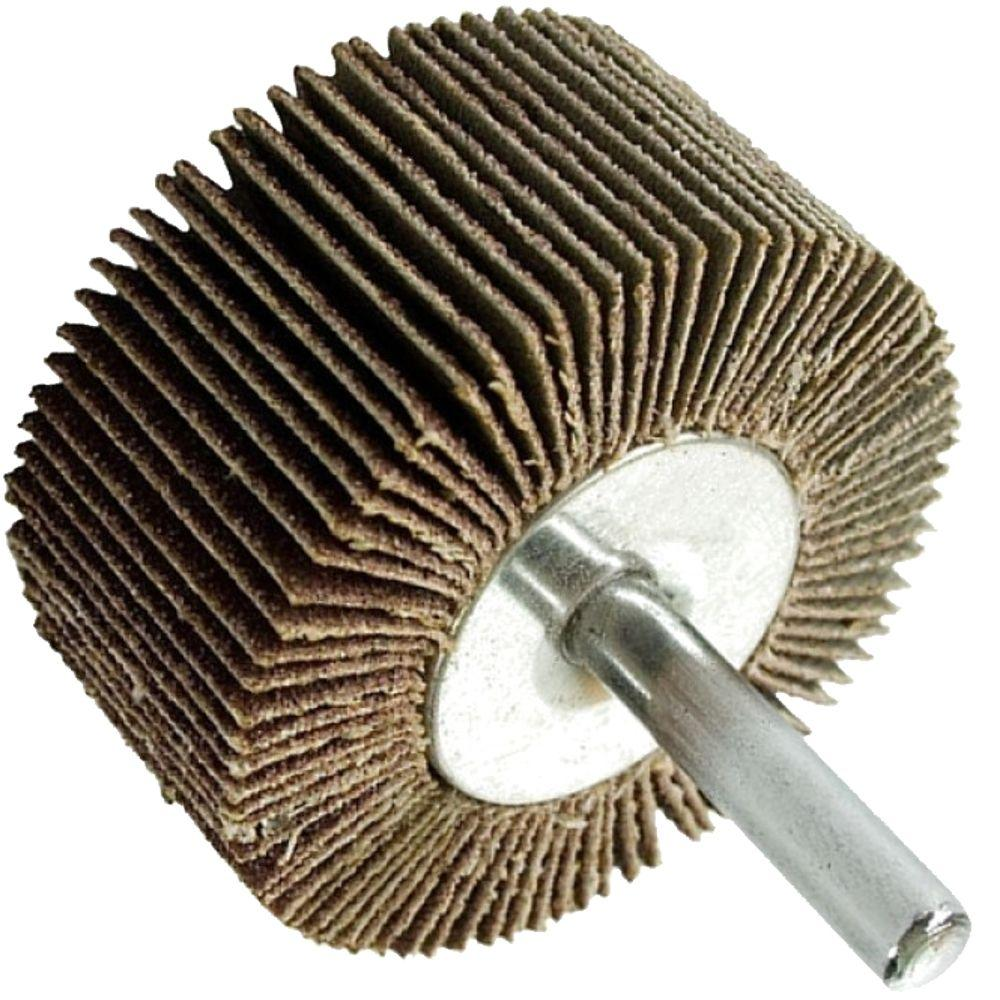
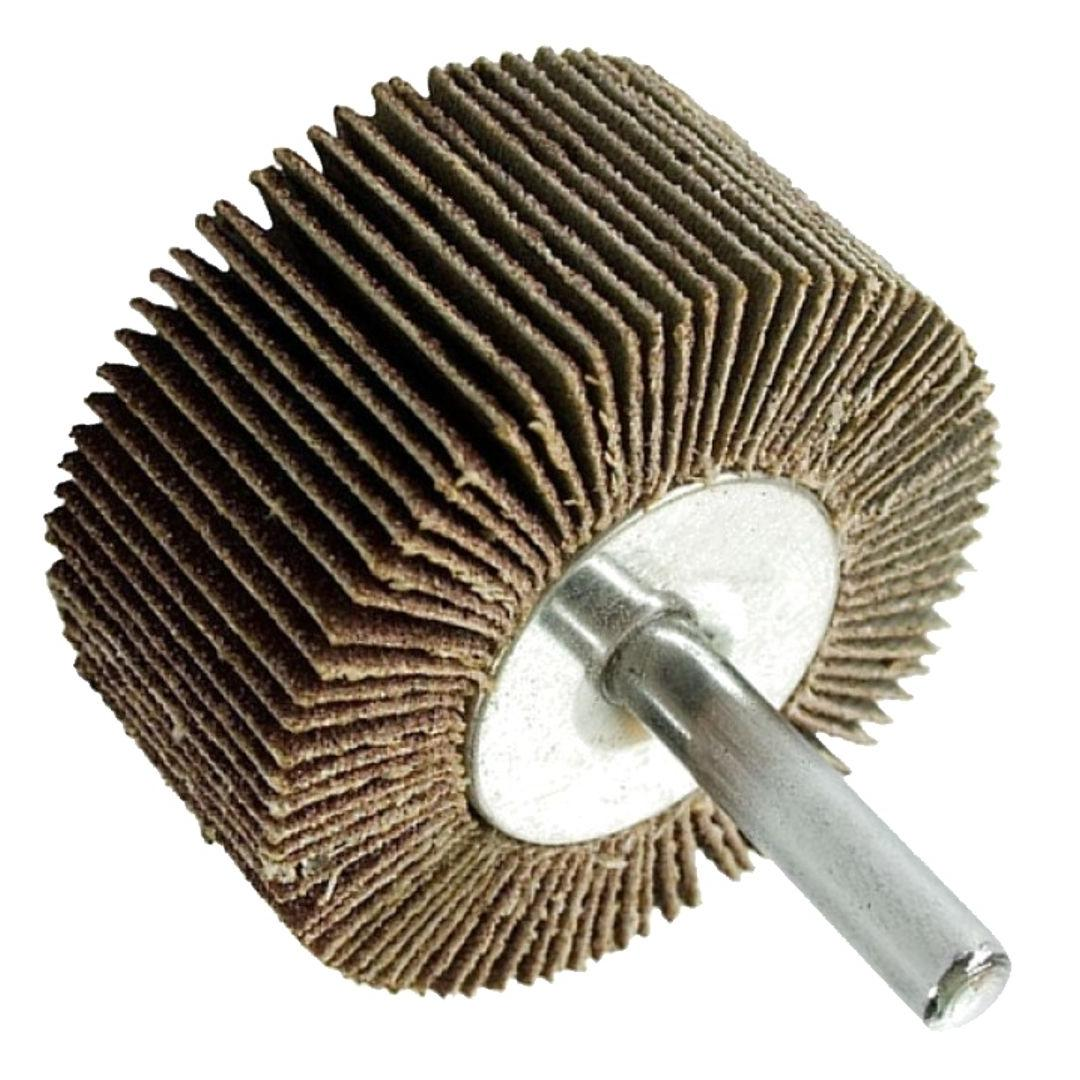
1

diff --git a/tork_craft/CH30002.html b/tork_craft/CH30002.html
@@ -1,4 +1,4 @@
-<h1>CHISEL SET WOOD 4PCE</h1><p>CH30002</p><div style="display:flex;flex-wrap:wrap;gap:8px"><img src="CH30002/CH30002_1.jpg" style="width:400px"><img src="CH30002/CH30002_0.jpg" style="width:400px"></div>
+<h1>Tork Craft | CHISEL SET WOOD 4PCE</h1><p>CH30002</p><div style="text-align: left;"><img src="https://cdn.shopify.com/s/files/1/1382/7397/files/images_b6f31213-5836-42e6-a5e0-0e47a24509b3_240x240.jpg?v=1689739908" style="margin-bottom: -22px; float: none;"></div><div style="display:flex;flex-wrap:wrap;gap:8px"><img src="CH30002/CH30002_1.jpg" style="width:400px"><img src="CH30002/CH30002_0.jpg" style="width:400px"></div>
 
 
 

diff --git a/tork_craft/ABRF4020120.html b/tork_craft/ABRF4020120.html
@@ -1,4 +1,4 @@
-<h1>FLAP WHEEL 40 X 20 X 6MM PER 120 GRIT ABRF4020120</h1><p>ABRF4020120</p><div style="display:flex;flex-wrap:wrap;gap:8px"><img src="ABRF4020120/ABRF4020120_0.jpg" style="width:400px"></div>
+<h1>Tork Craft | FLAP WHEEL 40 X 20 X 6MM PER 120 GRIT ABRF4020120</h1><p>ABRF4020120</p><div style="text-align: left;"><img src="https://cdn.shopify.com/s/files/1/1382/7397/files/images_b6f31213-5836-42e6-a5e0-0e47a24509b3_240x240.jpg?v=1689739908" style="margin-bottom: -22px; float: none;"></div><div style="display:flex;flex-wrap:wrap;gap:8px"><img src="ABRF4020120/ABRF4020120_0.jpg" style="width:400px"></div>
 
 
 
